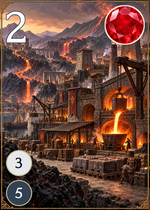
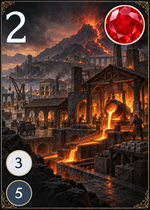
Support card-specific artwork and regenerate sample cards

diff --git a/tools/generate_cards.py b/tools/generate_cards.py
@@ -33,15 +33,8 @@ def generate_cards(cards, images, output, font_path, high_res=None):
     if high_res:
         high_res.mkdir(parents=True, exist_ok=True)
 
-    # Load each needed tier/color background once, even when many cards share it.
-    # RGBA includes an alpha (opacity) channel, required for transparent overlays.
-    # LANCZOS is a high-quality resampling filter that blends neighboring pixels
-    # to retain detail and reduce jagged edges when resizing.
+    # Cache by filename so cards can share common artwork or use their own.
     backgrounds = {}
-    for level, color in {(card.tier, card.color) for card in cards}:
-        name = f"card_l{level}_{color.lower()}.png"
-        with Image.open(images / name) as original:
-            backgrounds[level, color] = original.convert("RGBA").resize(SIZE, Image.Resampling.LANCZOS)
 
     # Prepare a reusable, card-sized transparent gem overlay for each color.
     gems = {}
@@ -65,8 +58,21 @@ def generate_cards(cards, images, output, font_path, high_res=None):
         gems[color] = Image.alpha_composite(rim, layer)
 
     for card in cards:
+        # IDs begin with card_<nnn>; omit the cost suffix for artwork lookup.
+        number = card.id.split("_")[1]
+
+        artwork = images / f"card_{number}_l{card.tier}_{card.color.lower()}.png"
+        if not artwork.is_file():
+            artwork = images / f"card_l{card.tier}_{card.color.lower()}.png"
+
+        if artwork not in backgrounds:
+            # RGBA provides opacity for overlays. LANCZOS blends neighboring
+            # pixels to preserve detail and smooth edges when resizing.
+            with Image.open(artwork) as original:
+                backgrounds[artwork] = original.convert("RGBA").resize(SIZE, Image.Resampling.LANCZOS)
+
         # Start a fresh composition; shared backgrounds and gem layers stay intact.
-        im = Image.alpha_composite(backgrounds[card.tier, card.color], gems[card.color])
+        im = Image.alpha_composite(backgrounds[artwork], gems[card.color])
         draw = ImageDraw.Draw(im)
 
         if card.points:
@@ -88,14 +94,17 @@ def generate_cards(cards, images, output, font_path, high_res=None):
             draw.ellipse((6 * SCALE, y * SCALE, 32 * SCALE, (y + 26) * SCALE), fill=PALETTE[color], outline='#c5b58d', width=SCALE)
             # 'mm' anchors text at its horizontal and vertical middle.
             draw.text((19 * SCALE, (y + 13) * SCALE), str(amount), font=fonts[16], fill=ink, anchor='mm', stroke_width=2, stroke_fill=ink)
-            
+
         # Downsample only after all overlays are composed; optionally retain the
         # full 1200×1680 composition in a separate folder under the same card ID.
         asset = im.resize((150, 210), Image.Resampling.LANCZOS)
         path = output / f'{card.id}.png'
         asset.save(path)
+        print(f"{artwork} -> {path}")
         if high_res:
-            im.save(high_res / f"{card.id}.png")
+            high_res_path = high_res / f"{card.id}.png"
+            im.save(high_res_path)
+            print(f"{artwork} -> {high_res_path}")
 
 
 def main():

diff --git a/README.md b/README.md
@@ -51,8 +51,11 @@ and gem PNGs in `images`, using attributes from `game/initialize.py`:
 python tools/generate_cards.py images assets --font /path/to/Forum-Regular.ttf
 ```
 
-The input folder must contain `card_l<level>_<gem>.png` backgrounds and
-`<gem>.png` icons (lowercase gem names). Output is fixed at 150×210px, using
+The input folder must contain `<gem>.png` icons (lowercase gem names).
+For artwork, the tool first looks for `card_<nnn>_l<level>_<gem>.png`
+(for example, `card_068_l2_ruby.png`), then falls back to
+`card_l<level>_<gem>.png`. It logs the artwork path and output path for each
+generated file. Output is fixed at 150×210px, using
 card IDs as filenames. Existing output files are replaced. The Forum font
 uses synthetic bold to match the current assets.
 
